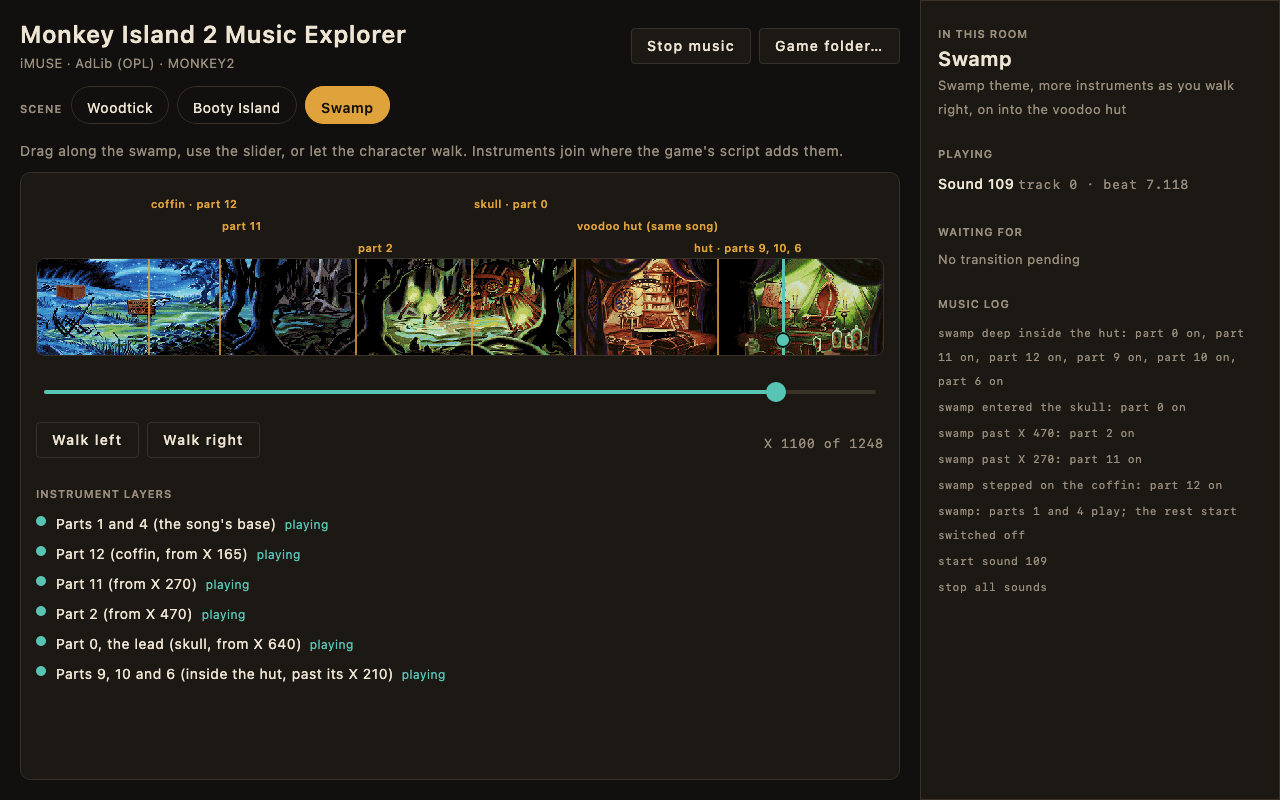
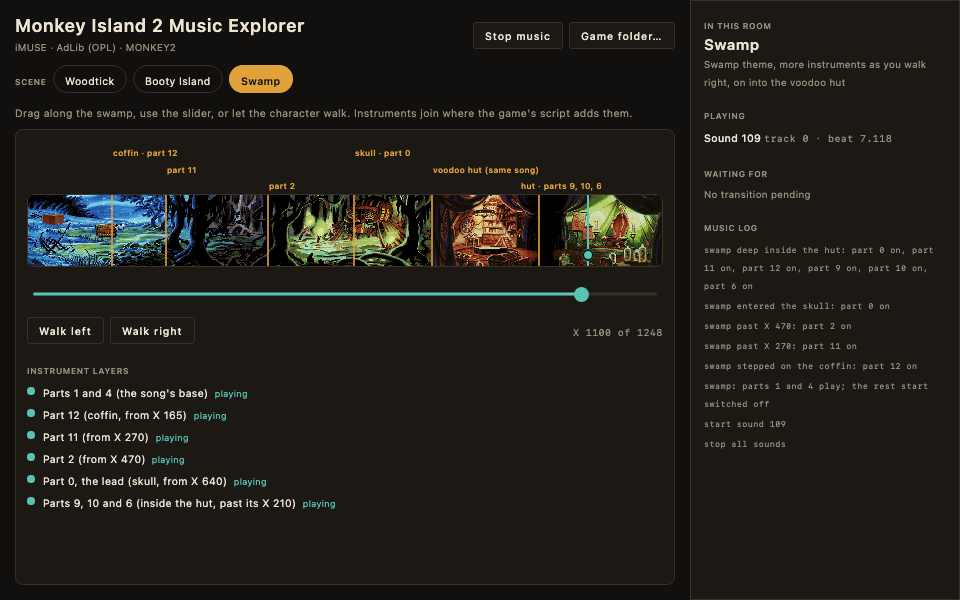
Update readme

diff --git a/src/main/kotlin/adventureexplorer/woodtick/WoodtickShot.kt b/src/main/kotlin/adventureexplorer/woodtick/WoodtickShot.kt
@@ -21,7 +21,8 @@ fun main(args: Array<String>) {
     fun shot(name: String, scene: Scene, room: Room?, x: Float = 0f, toggleOn: Boolean = false, script: WoodtickEngine.() -> Unit) {
         val engine = WoodtickEngine(assets.songs)
         engine.script()
-        val image = ImageComposeScene(1280, 800, Density(1f)) {
+        // 960 x 600 pixels at 75% density: the same layout as the 1280 x 800 window, as a smaller picture
+        val image = ImageComposeScene(960, 600, Density(0.75f)) {
             AppFrame { Explorer(assets, engine, game, scene, room, x, toggleOn) }
         }.let { composeScene ->
             composeScene.render()

diff --git a/README.md b/README.md
@@ -1,127 +1,54 @@
 # Monkey Island 2 Music Explorer
 
-A small app on top of ScummVM-derived iMUSE code and the Nuked OPL emulator, ported to Kotlin. It shows the
-Woodtick rooms of *Monkey Island 2* as a map; click a connected room and the music changes
-the way the game's own scripts change it (wait for the next marker, take the hook to the ending
-track, start the next song). It reads your own game files, so none are shipped.
+Walk around scenes of *Monkey Island 2* and hear how its iMUSE music changes, played through an emulated AdLib (OPL2)
+card. Click a connected room and the music changes the way the game's own scripts change it: the song waits for the
+right moment, plays an ending, and the next one begins under it. Scenes so far: **Woodtick**, **Booty Island** and the
+**swamp** with the voodoo hut, where instruments join as you walk.
 
-Scenes are switched with the pills under the title. **Woodtick** rooms: `woodtick`, `cartograp`, `bar`, `grill`, `inn`, `largos`, `laundry`, `woodshop`.
-Needs the **AdLib (DOS)** version, i.e. `MONKEY2.000` + `MONKEY2.001` with `ADL ` music.
+It reads your own copy of the game, so no game files are included. You need the **DOS AdLib version** of *Monkey
+Island 2* (the folder with `MONKEY2.000` and `MONKEY2.001`).
 
-## Screenshots
+<table>
+  <tr>
+    <td><img src="docs/screenshots/woodtick-transition.png" width="420" alt="Woodtick: a transition in progress"><br><sub>Woodtick: a transition waiting for its marker</sub></td>
+    <td><img src="docs/screenshots/woodtick-laundry.png" width="420" alt="The laundry with the talking layer on"><br><sub>The laundry: <i>Talk to Men of Low Moral Fiber</i> adds a layer</sub></td>
+  </tr>
+  <tr>
+    <td><img src="docs/screenshots/booty-island.png" width="420" alt="Booty Island: the antique shop mix"><br><sub>Booty Island: one song, a different mix per shop</sub></td>
+    <td><img src="docs/screenshots/swamp.png" width="420" alt="The swamp, walked into the voodoo hut"><br><sub>The swamp: instruments join as you walk into the hut</sub></td>
+  </tr>
+</table>
 
-**Woodtick.** Walking from the street to the cartographer: the street song waits for its next marker, jumps to its
-ending, and the cartographer's song starts as the ending plays out. The panel on the right shows what the player is
-waiting for.
+## Download
 
-![Woodtick: a transition in progress](docs/screenshots/woodtick-transition.png)
+Every commit to `main` publishes fresh installers on the **[Latest release](https://github.com/kelmer44/imusePlayer/releases/tag/latest)**:
 
-**The laundry.** "Talk to Men of Low Moral Fiber" (or the small *Talk* button on the picture) fades in the conversation
-layer, as the game's laundry script does.
+- `MI2-Music-Explorer-macos-arm64.dmg` for Apple Silicon Macs
+- `MI2-Music-Explorer-windows.msi` for Windows
 
-![Woodtick laundry with the talking layer on](docs/screenshots/woodtick-laundry.png)
+They are not code-signed, so macOS and Windows warn the first time you open them. Open the app, choose your *Monkey
+Island 2* folder, and click a room.
 
-**Booty Island.** Ville, Spitville and the shops share one song; walking into a shop only changes which instrument
-parts play.
+## Build from source
 
-![Booty Island: the antique shop mix](docs/screenshots/booty-island.png)
-
-**The swamp.** Drag along the swamp, or let the character walk. Instruments join at the coffin, further along, at
-the skull, and inside the voodoo hut.
-
-![The swamp, walked all the way into the voodoo hut](docs/screenshots/swamp.png)
-
-*The room pictures are taken from the game files on the author's machine, for illustration. They belong to their
-owners (see `THIRD_PARTY.md`).*
-
-## Running it
+You need JDK 17. On Windows, building the `.msi` also needs [WiX](https://wixtoolset.org).
 
 ```bash
-./gradlew runWoodtick -Pgame="/path/to/MONKEY2"      # run from source (game folder optional)
-./gradlew packageDmg                      # macOS installer
-./gradlew packageMsi                      # Windows installer (build on Windows, needs WiX)
+./gradlew runWoodtick -Pgame="/path/to/MONKEY2"   # run it (the game folder is optional; the app asks otherwise)
+./gradlew packageDmg                              # macOS installer
+./gradlew packageMsi                              # Windows installer, build on Windows
 ```
 
-**Booty Island** rooms: `ville` (46), `spitvile` (47), `antique` (48), `costume-s` (49), `funeral-p` (50).
+## How it works
 
-## Booty Island (global scripts 117 and 120)
-
-- Ville, Spitville and both shops share song **118**; the game never restarts it when you walk between them,
-  it only switches instrument parts. Script 120 reads a 90-character `1`/`0` string, 8 characters per group:
-  ville group 3, Spitville 5, antique 9, costume 2 (parts 0-7).
-- The funeral parlor has its own song **116**. Entering cross-fades (1 s fade of 118). Leaving arms jump hook 1
-  on 116, waits for it to play out its ending, then starts 118.
-- Not reproduced: script 120's adaptive layer (it also cycles between songs 114/117/118 and adds layers
-  when you pass objects), and Booty Island's outdoor theme (115) because the island map isn't a scene yet.
-
-## Swamp (room 20)
-
-Song 109 starts with only parts 1 and 4 playing; its own setup data switches the other parts off, and the
-scripts layer them in as you walk right (the room is 792 px wide):
-
-| Where | Part | Source |
-|---|---|---|
-| X 165, at the sign | 12 | stepping on the coffin (local script 203; script 204 switches it off on the shore) |
-| X 270 | 11 | local script 216 (`getActorX`) |
-| X 470 | 2 | local script 216 (goes off again at 470 and below) |
-| X 640, the skull's mouth | 0, the lead | room 21's entry script (its exit script switches it off) |
-
-| X 1002 (hut X 210) | 9, 10, 6 (and 0, 11, 12 forced on) | the voodoo hut's local script 212, every frame: past hut X 210 all six are on, at 210 or less 9, 10 and 6 go off again |
-
-The walk continues into the voodoo hut (room 21, 456 px wide), whose picture is attached to the right of the swamp's
-at X 792. The same song carries on inside: the swamp's exit script only fades it out when the next room is *not* 21,
-and the hut's entry script (part 0 on) and script 212 then keep layering parts into it. Leaving the hut switches
-part 0 off again in the game; the scene keeps part 0 tied to the skull threshold instead.
-
-The coffin and the skull are events in the game; the scene turns them into thresholds along the walk, and they are
-easy to move (`Swamp.COFFIN_X`, `SKULL_X`). Parts 11 and 12 are very quiet instruments; parts 2 and 0 are the
-audible steps. Not reproduced: the voodoo lady's first-visit cutscene (room 21 script 206), which has its own music.
-
-## What the scripts do (Woodtick) (read with `tools/scumm5_disasm.py`)
-
-| Room | SCUMM room | Song |
-|---|---|---|
-| Woodtick street | 7 | 101 |
-| Cartographer | 8 | 104 |
-| Bar (and Grill, which has no song of its own) | 9, 11 | 103 |
-| Inn | 12 | 152 |
-| Largo's room | 13 | 182 |
-| Laundry | 14 | 110 |
-| Woodshop | 15 | 111 |
-
-- Global script 96 is `96(fromRoom, toRoom)`. It queues two marker triggers on the song being left,
-  then the new song. Marker 0 either jumps straight to the street song's ending
-  (track 5, beat 4.400) or arms jump hook 1 on the other songs; marker 1 (end of an ending track)
-  stops the old song and starts the new one. The street song starts with hook 7 armed.
-- Inn ↔ Largo's room cross-fade (60-tick fade-out on the old song).
-- Laundry local script 225: while talking, parts 3, 9, 10 fade in and part 1 drops to 84.
-
-`tools/scumm5_disasm.py <MONKEY2 folder> room <n>` prints a room's music/iMUSE calls;
-`./gradlew songdump --args="<folder> 101 104"` lists a song's hooks, markers and loops;
-`MONKEY2_TEST_PATH=<folder> ./gradlew test --tests 'adventureexplorer.woodtick.*'` runs every
-transition on the real songs without audio.
-
-## Not reproduced
-
-- Cartographer's first-visit variation (hook 3 / part 3 hook, gated on story flags).
-- The inn's part 1 / part 3 morph (script 151) when you walk to Largo's room.
-- Only the AdLib (OPL) renderer; no MT-32 / MIDI output.
-
-## Downloads
-
-Every commit to the main branch builds the installers and publishes them on the **Latest** release
-(`.github/workflows/release.yml`): `MI2-Music-Explorer-macos-arm64.dmg` (Apple Silicon) and
-`MI2-Music-Explorer-windows.msi`. The `latest` tag always points at the commit they were built from. The installers
-are not code-signed, so macOS and Windows warn on first launch.
+See [docs/TECHNICAL.md](docs/TECHNICAL.md) for how the music behaviour was read out of the game's scripts, what each
+scene does, what is not reproduced, and the test and helper tools.
 
 ## Licence
 
-Copyright (C) 2026 gsanmartin and contributors.
+Free software under the **GNU General Public License, version 3 or (at your option) any later version**; see
+[LICENSE](LICENSE). It is built on ScummVM's iMUSE and AdLib code and on Nuked OPL3; the full credits and the licences
+of the libraries are in [THIRD_PARTY.md](THIRD_PARTY.md).
 
-This program is free software: you can redistribute it and/or modify it under the terms of the GNU General Public
-License as published by the Free Software Foundation, either version 3 of the License, or (at your option) any later
-version. It is distributed in the hope that it will be useful, but WITHOUT ANY WARRANTY; without even the implied
-warranty of MERCHANTABILITY or FITNESS FOR A PARTICULAR PURPOSE. See `LICENSE`.
-
-It is built on ScummVM's iMUSE and AdLib code and on Nuked OPL3; see `THIRD_PARTY.md` for the full list and the
-licences of the libraries. The game's data files are not included.
+*Monkey Island* and *LucasArts* belong to their owners. This project is not affiliated with or endorsed by them.
+The screenshots show room pictures from the game, and the app icon is the LucasArts logo, for illustration only.

diff --git a/docs/TECHNICAL.md b/docs/TECHNICAL.md
@@ -1,0 +1,128 @@
+# Technical notes
+
+How the music behaviour in MI2 Music Explorer was found, what it does, and what it leaves out. Everything here was
+read out of the game's own scripts and songs with the tools in `tools/` and `./gradlew` helpers listed at the end.
+
+## How the player works
+
+- **iMUSE sequencer** (`audio/imuse/ImuseSequencer.kt`): a Kotlin port of ScummVM's iMUSE player. It runs a song's
+  MIDI tracks and handles its SysEx: loops, jump hooks, part on/off, markers, instruments.
+- **AdLib driver and OPL** (`AdlibOplDevice.kt`, `Opl3.kt`): nine OPL2 voices shared between the parts, rendered by a
+  port of Nuked OPL3.
+- **Engine** (`woodtick/WoodtickEngine.kt`): runs the sequencers on a 250 Hz timer. Each song gets its own OPL chip, so
+  two songs can overlap and a stopped song's notes keep releasing. It offers the small part of the game's iMUSE command
+  set the scripts use: start and stop a sound, set a hook, jump, fade, part on/off, and one-shot triggers that fire on
+  a song's marker (the game's `enqueue_trigger` / `enqueue_command`) or when a song finishes.
+- **Scenes** (`woodtick/*Model.kt`): each scene is a list of rooms plus the music rules the game's scripts apply
+  between them. `Woodtick`, `BootyIsland` and `Swamp` implement `Scene`.
+- **Settling delay:** a song's own setup data switches parts on or off just after it starts. Part commands sent in the
+  first half second are held until then, otherwise they would be overwritten.
+
+## Reading the scripts
+
+`tools/scumm5_disasm.py` is a small SCUMM v5 script reader (the opcode table is generated from ScummVM's
+`script_v5.cpp`). It decodes about 99% of Monkey Island 2's scripts (a few dozen of roughly 3,300 stop early on an opcode it does not model) and prints the music calls:
+
+- `startSound` / `stopSound`: start or stop a sound resource.
+- `soundKludge [command, ...]`: iMUSE commands. The command number is `256 * param + cmd`, for example `268` is
+  "set hook" (`doCommand` 0x10C), `267` is part on/off, `278` part volume, `269` fade volume, `270` / `271` queue a
+  marker trigger and its commands, `272` clear the queue, `[-1]` runs what has been queued.
+- Local scripts are numbered 200 and up inside a room; verb scripts belong to objects.
+
+Conditional jumps are easy to misread: in SCUMM bytecode the operand order is reversed, and `notEqualZero` falls
+through when the value is non-zero. The notes below take that into account.
+
+Songs start with only some of their parts on (the SysEx at the start of each song sets that). The scripts layer the
+rest in. That is why a song "naturally" sounds thinner than all of its parts together.
+
+## Woodtick
+
+| Room | SCUMM room | Song |
+|---|---|---|
+| Woodtick street | 7 | 101 |
+| Cartographer | 8 | 104 |
+| Bar (and Grill, which has no song of its own) | 9, 11 | 103 |
+| Inn | 12 | 152 |
+| Largo's room | 13 | 182 |
+| Laundry | 14 | 110 |
+| Woodshop | 15 | 111 |
+
+- **Global script 96** is `96(fromRoom, toRoom)`. Leaving a room queues two marker triggers on the song being left:
+  - *marker 0* either jumps the street song straight to its ending (track 5, beat 4.400; the street song has a marker
+    every 4 beats), or arms jump hook 1 on the other songs (their marker 0 comes every 8 beats, just before the hook),
+    which leads to an ending track;
+  - *marker 1* sits inside every ending track. It starts the new song (`startSound` of the destination). The old song is
+    **not** stopped: it plays out the rest of its ending while the new one begins, which is what makes the change
+    seamless.
+  - The street song starts with jump hook 7 armed, which skips to its arrival section.
+- **Inn and Largo's room** cross-fade instead: a 60-tick fade-out on the old song while the new one starts.
+- **Laundry, local script 225** (the "Talk to Men of Low Moral Fiber" button): parts 3, 9 and 10 are switched on at
+  volume 0 and raised over 127 script frames (about 8 s) while part 1 drops from 127 to 84; the reverse runs when
+  the conversation ends. A script frame is 4/60 s.
+
+## Booty Island
+
+Global scripts 117 (`117(fromRoom, toRoom)`) and 120 (a layer director that runs while you are in town).
+
+- **Ville, Spitville and both shops** share song **118**. The game never restarts it when you walk between them; script 120
+  only switches parts when the ego's room changes. It reads a 90-character string of `1` / `0`, **9 characters per
+  group** (`(group - 1) * 9`): characters 0-7 are parts 0-7 and character 8 is part 9.
+  - Ville: a random group 1-3, rolled when the town song starts.
+  - Spitville: group 5. Antique shop: group 9. Costume shop: group 2.
+- **Funeral parlor** has its own song **116**. Entering fades 118 out over a second while 116 starts. Leaving arms jump
+  hook 1 on 116, waits for it to play out its ending, then starts 118.
+- Part 9 of the funeral song is switched off only when a story flag (bit 90) is set; it is not in the player.
+
+## Swamp (room 20) and the voodoo hut (room 21)
+
+Song **109** starts with parts 1 and 4 only. The room is 792 px wide, the hut 456 px; the player attaches the hut's
+picture to the right of the swamp's, so the walk is one panorama of 1248 px.
+
+| Where | Part | Source in the game |
+|---|---|---|
+| X 165, at the sign | 12 | stepping on the coffin (local script 203; script 204 switches it off on the shore) |
+| X 270 | 11 | local script 216, which reads `getActorX` every frame |
+| X 470 | 2 | script 216 (goes off again at 470 and below) |
+| X 640, the skull's mouth | 0, the lead | room 21's entry script (its exit script switches it off) |
+| X 1002 (hut X 210) | 9, 10, 6, plus 0, 11, 12 forced on | the hut's local script 212, every frame: past hut X 210 all six are on; at 210 or less 9, 10 and 6 go off again |
+
+- Entering the hut does not fade the swamp song: the swamp's exit script only fades it when the next room is *not* 21.
+- The coffin and the skull are events in the game, not positions. The player turns them into thresholds along the walk;
+  they are easy to move (`Swamp.COFFIN_X`, `SKULL_X`).
+- Parts 11 and 12 are very quiet instruments; parts 2, 0 and the hut group are the audible steps.
+- The game switches part 0 off when you leave the hut; the player keeps it tied to the skull threshold instead.
+
+## Not reproduced
+
+- Woodtick: the cartographer's first-visit variation (jump hook 3 and a part hook, gated on story flags); the inn's
+  part 1 / part 3 morph (script 151) when walking to Largo's room.
+- Booty Island: script 120's adaptive layer (it also cycles between songs 114, 117 and 118 and adds layers when you pass
+  objects); the island's outdoor theme (115), because the island map is not a scene.
+- Swamp: the voodoo lady's first-visit cutscene (room 21 script 206), which has its own music.
+- Only the AdLib (OPL) renderer is supported. No MT-32 or other MIDI output.
+
+## Tests and helper tools
+
+```bash
+# Run every transition and layer change on the real songs, without audio output
+MONKEY2_TEST_PATH=/path/to/MONKEY2 ./gradlew test --tests 'adventureexplorer.woodtick.*'
+
+# Print a room's music and iMUSE calls, or one global script
+python3 -I tools/scumm5_disasm.py /path/to/MONKEY2 room 20
+python3 -I tools/scumm5_disasm.py /path/to/MONKEY2 global 96
+
+# A song's hooks, markers and loops; a room's object positions; notes per channel
+./gradlew songdump   --args="/path/to/MONKEY2 101 104"
+./gradlew layerdump  --args="/path/to/MONKEY2 20"
+./gradlew notecounts --args="/path/to/MONKEY2 109"
+
+# Regenerate the README screenshots, or the app icons from a logo image
+./gradlew woodtickshot --args="/path/to/MONKEY2 docs/screenshots"
+tools/make_icons.sh path/to/logo.png
+```
+
+## Release builds
+
+`.github/workflows/release.yml` builds the macOS `.dmg` and Windows `.msi` on every push to `main` and replaces the
+**Latest** release; the `latest` tag moves to that commit. The installer version is `1.0.<run number>`
+(`-PappVersion=` in `build.gradle.kts`). The installers are not code-signed.
